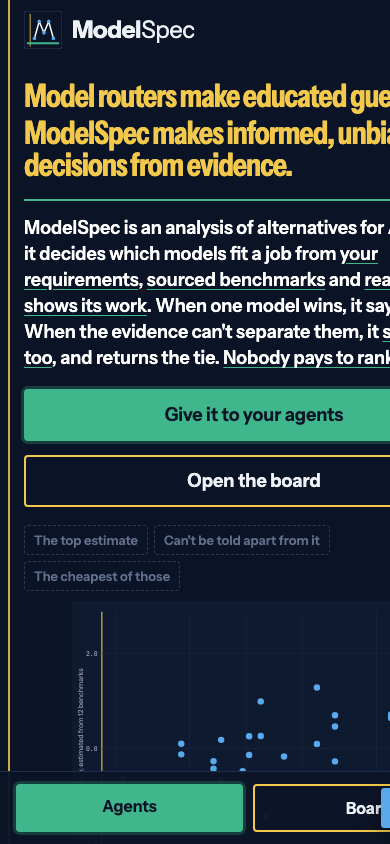
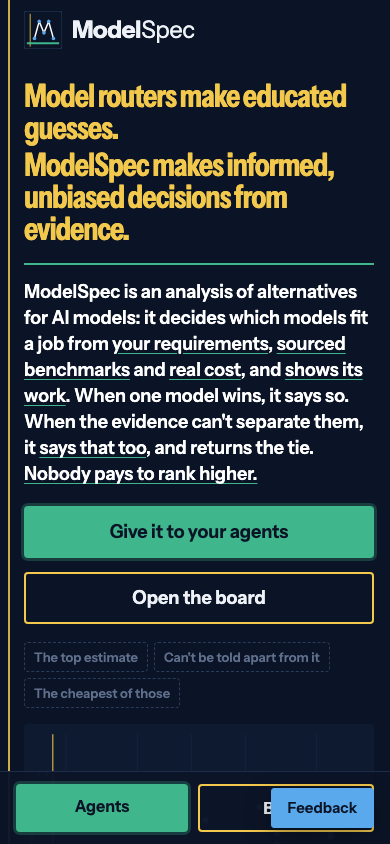
MODEL-470 review: retake the phone screenshots at 390px
The previous mobile captures were a wide layout cropped to 390 pixels.
Replace them with Playwright captures of the built pages at a 390 by 844
viewport and device scale 1. The router line wraps, and the page scroll
width equals that viewport. Desktop captures stay, because the page did
not change. Record the round 2 checks in the evidence note.

diff --git a/docs/evidence/MODEL-470-fix.md b/docs/evidence/MODEL-470-fix.md
@@ -44,14 +44,17 @@ Exit 0. Vitest: 937 passed, 64 files, 1 file skipped.
 
 ## Screenshots
 
-Landing page from those builds. Desktop window 1280×900. Mobile window 390×844. Chrome headless.
+Desktop window 1280×900, kept from round 1. This round did not change the page.
 
 - `docs/evidence/MODEL-470/desktop-before.png`
-- `docs/evidence/MODEL-470/mobile-before.png`
 - `docs/evidence/MODEL-470/desktop-after.png`
-- `docs/evidence/MODEL-470/mobile-after.png`
 
-At 390px the router line wraps inside the hero. `documentElement.scrollWidth` equals the viewport width. The page has one `h1`.
+Round 1's mobile files were a wide layout cropped to 390×844. Round 2 replaced them with captures from the built sites at a 390×844 viewport, device scale 1.
+
+- `docs/evidence/MODEL-470/mobile-before.png` from the build of `58748fec`
+- `docs/evidence/MODEL-470/mobile-after.png` from the build of this round
+
+On the current page the router line is `Evidence-backed logic that powers complex model routing.` and it wraps onto two line boxes. `documentElement.scrollWidth` is 390, the same as `innerWidth`. The page has one `h1`. The pre-change page has no router line. Its hero text fits the same 390-wide viewport.
 
 ## Generators
 
@@ -60,8 +63,52 @@ At 390px the router line wraps inside the hero. `documentElement.scrollWidth` eq
[2 lines of base64/hex data omitted]
 
-`qa/fixtures/ablation-pre682-copy.json` and `qa/fixtures/ablation-metadata.json` each had the old sentence once. Both now carry the revised sentence, and the rest of each fixture is unchanged, so the old tail does not remain outside history and evidence. The ablation convergence tests passed.
+`qa/fixtures/ablation-pre682-copy.json` and `qa/fixtures/ablation-metadata.json` each had the old sentence once. Round 1 replaced that sentence and left `source_commit` and `source_sha256` in place. Round 2 restored both files from `origin/main`. Recorded fixtures keep the text they captured.
 
 ## After merge
 
 The PyPI package `modelspec-dev` still ships the previous `agent-bundle.json` until a release. The published MCP registry entry still has the previous `server.json` description until that manifest is published. The deployed MCP Worker still serves the previous guide until it is deployed. The GitHub repository description is a repository setting and still needs a manual edit.
+
+## Round 2
+
+Review fixes. The three registry strings in `pipeline/entity.py` are unchanged apart from one new `SUPERSEDED` entry. `git diff 2c656a8a -- pipeline/entity.py` is that line.
+
+Python `/Users/terbeest/dev/modelspec/.venv/bin/python`, version 3.14.4. Node v22.22.3 for the screenshots. Playwright Chromium from `web/node_modules/playwright`.
+
+Red, before the repository scan. `tests/test_surface_lint.py::test_copied_identity_reports_readme_typescript_and_html` exited 1. The lint reported no files. The planted paths were `README.md`, `src/router.ts` and `templates/landing.html`.
+
+Red, before the retired tail was listed. Both of these exited 1:
+
+```bash
+env PYTHONPATH=$PWD /Users/terbeest/dev/modelspec/.venv/bin/python -m pytest -q -p no:cacheprovider \
+  tests/test_entity.py::test_the_retired_cost_tail_is_superseded_and_misses_the_revised_sentence \
+  tests/test_surface_lint.py::test_retired_cost_tail_is_rejected_outside_recorded_history
+```
+
+`sourced benchmarks and real cost` was absent from `entity.SUPERSEDED`, and a planted `README.md` produced no `presence.superseded` finding.
+
+Green, after the changes. The same two tests passed, and the focused modules passed together:
+
+```bash
+env PYTHONPATH=$PWD /Users/terbeest/dev/modelspec/.venv/bin/python -m pytest -q -p no:cacheprovider \
+  tests/test_entity.py tests/test_surface_lint.py tests/test_about.py \
+  tests/test_decision_link.py tests/test_legal.py \
+  tests/test_ablation.py tests/test_ablation_proxy.py tests/test_ablation_targets.py
+```
+
+670 passed in 66.74s. Exit 0. The three ablation modules alone, after the fixture restore, were 297 passed. Exit 0.
+
+The copy lint reads `git ls-files`. Outside a checkout it walks the tree and skips `node_modules`, `dist`, `.git` and build output. It matches the tagline and the router line with or without the trailing full stop, in any case. The same pass rejects `SUPERSEDED`, including the retired tail. Exempt: `pipeline/entity.py`, `tests/`, `docs/history/`, `docs/evidence/`, `qa/fixtures/`, and the generated files named in `pipeline/surface_lint.py`. No llms Markdown twin is committed under `docs/`. `docs/agents.md` is the committed agents twin.
+
+Site build and the lint CI runs on the built tree:
+
+```bash
+~/.codex-g2/heavy.sh env PYTHONPATH=$PWD /Users/terbeest/dev/modelspec/.venv/bin/python -m pipeline.build --out /tmp/MODEL-470-scratch/after-dist
+env PYTHONPATH=$PWD /Users/terbeest/dev/modelspec/.venv/bin/python -m pipeline.surface_lint --tree /tmp/MODEL-470-scratch/after-dist/modelspec
+```
+
+Both exited 0. The lint reported 0 findings and 5366 files. A second build of `58748fec` supplied the pre-change mobile capture. `web/` was not changed, so this round did not run `npm ci`. The live-assembly lint was not run.
+
+Phone metrics, both captures: `innerWidth` 390, `innerHeight` 844, `devicePixelRatio` 1, `scrollWidth` 390. On the current page the router line's two line boxes are 330px and 113px, and the element's scroll width equals its client width.
+
+Not observed here: the pull request's GitHub checks after this push, a browser session against modelspec.dev, and the `web/` test suite.
